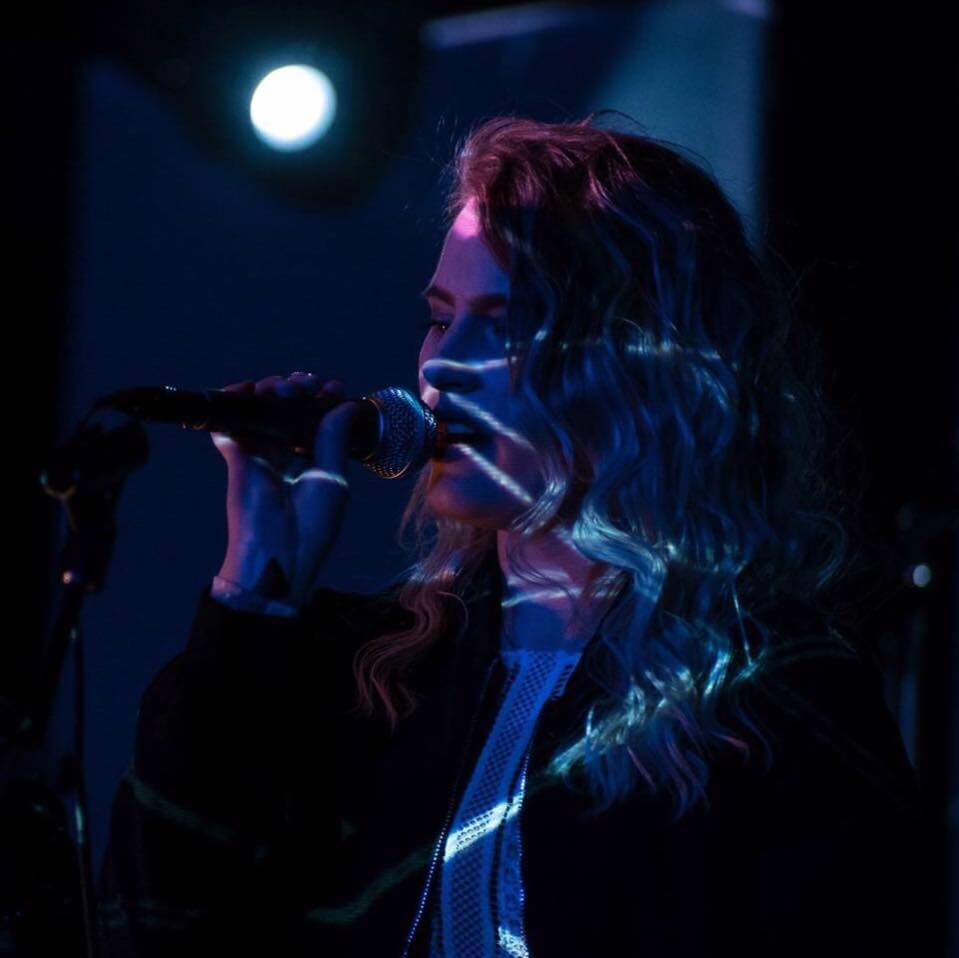
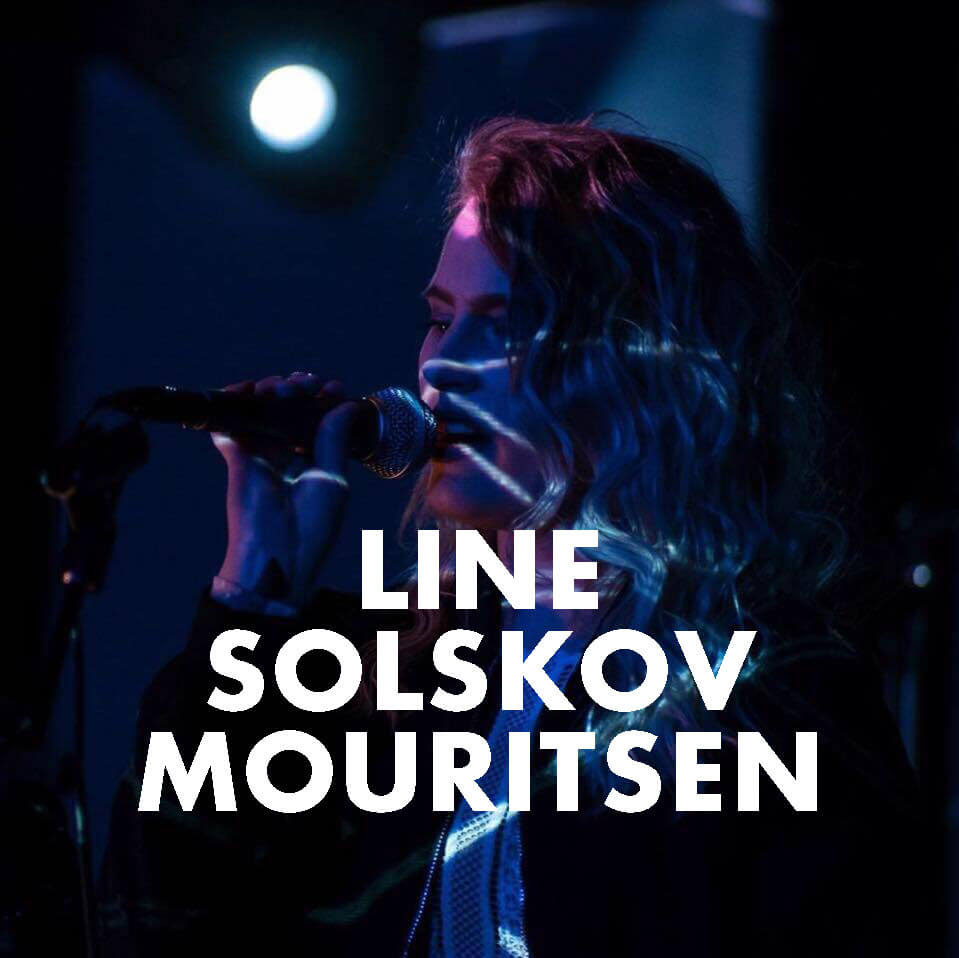
added artists names

Changed region(s): [[0.121, 0.5449, 0.877, 0.8476]]

diff --git a/index.html b/index.html
@@ -14,7 +14,7 @@
     <script src="https://rawgit.com/ngokevin/aframe-look-at-component/master/dist/aframe-look-at-component.min.js"></script>
     <script src="https://rawgit.com/ngokevin/aframe-layout-component/master/dist/aframe-layout-component.min.js"></script>
     <script src="https://rawgit.com/ngokevin/aframe-text-component/master/dist/aframe-text-component.min.js"></script>
-    <script src="https://rawgit.com/bryik/aframe-bmfont-text-component/master/dist/aframe-bmfont-text-component.min.js"></script>
+    <script src="https://rawgit.com/ngokevin/aframe-text-component/master/dist/aframe-text-component.min.js"></script>
 
     <script src="js/components/isvr_photosphere_menu.js"></script>
     <script src="js/components/isvr_photosphere_menu_thumb.js"></script>
@@ -505,9 +505,11 @@ THREE.Sky = function () {
       <a-entity light="type: hemisphere; color: #33C; groundColor: #3C3; intensity: 2"></a-entity>
       <a-entity layout="type: circle; radius: 5;" position="0 -1 2.7" >
         <a-box geometry="primitive: box" material="src: #texture-22-facaden" width="2" height="2" depth="2" sound="src: aamaze-sound/Facaden - Spytter Som En Gal Feat. Lil-D (Officiel Musikvideo).mp3;"
-        onmouseenter="playSong()" onmouseleave="pauseSong()" look-at="#middle"></a-box>
+        onmouseenter="playSong()" onmouseleave="pauseSong()" look-at="#middle">
+        </a-box>
         <a-box geometry="primitive: box" material="src: #texture-1-between" width="2" height="2" depth="2"  sound="src: aamaze-sound/Between Between - more of you.mp3;"
-        onmouseenter="playSong()" onmouseleave="pauseSong()" look-at="#middle"></a-box>
+        onmouseenter="playSong()" onmouseleave="pauseSong()" look-at="#middle">
+        </a-box>
         <a-box geometry="primitive: box" material="src: #texture-2-danskespor" width="2" height="2" depth="2"  sound="src: aamaze-sound/Danske Spor - Alle Disse Hoveder.mp3;"
         onmouseenter="playSong()" onmouseleave="pauseSong()" look-at="#middle"></a-box>
         <a-box geometry="primitive: box" material="src: #texture-3-drownedsession" width="2" height="2" depth="2"  sound="src: aamaze-sound/Drowned Session - The Winter Way.mp3;"
